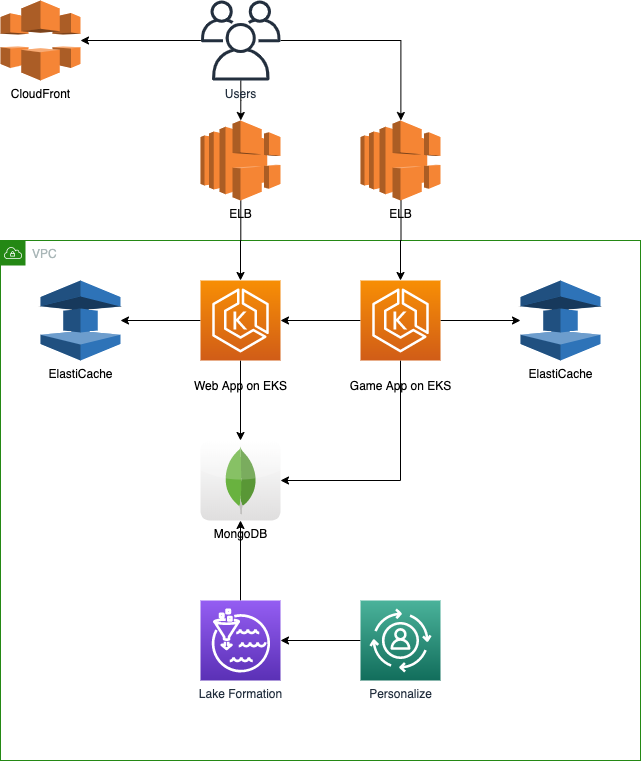
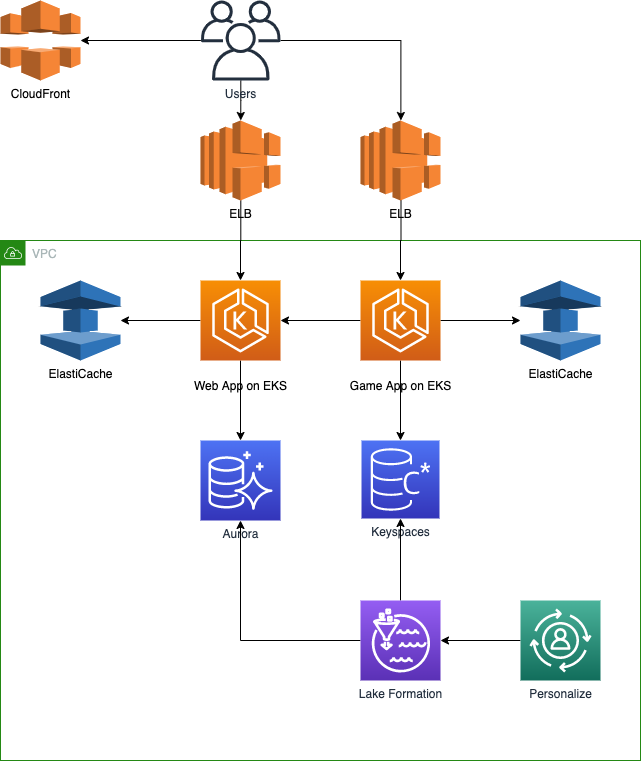
...

diff --git a/README.md b/README.md
@@ -1,0 +1,5 @@
+# Plans
+
+- plan a is cassandra
+- plan b is mysql + cassandra
+- plan c is mongodb
